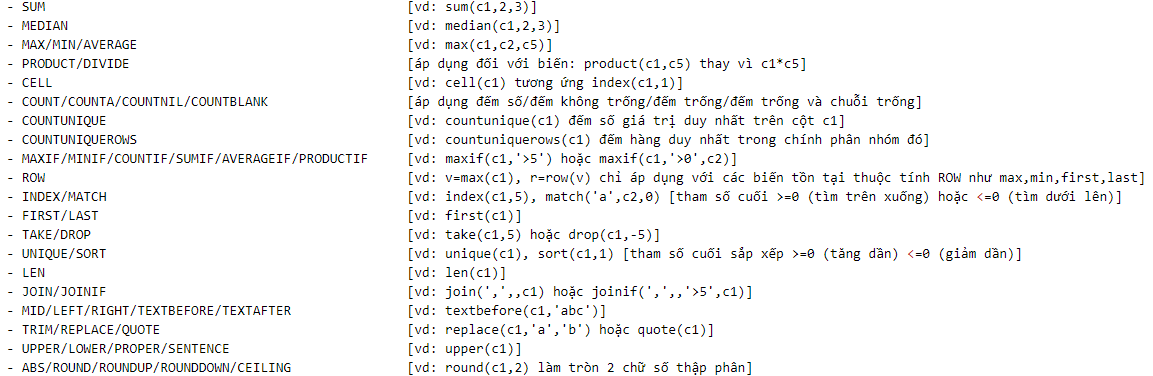
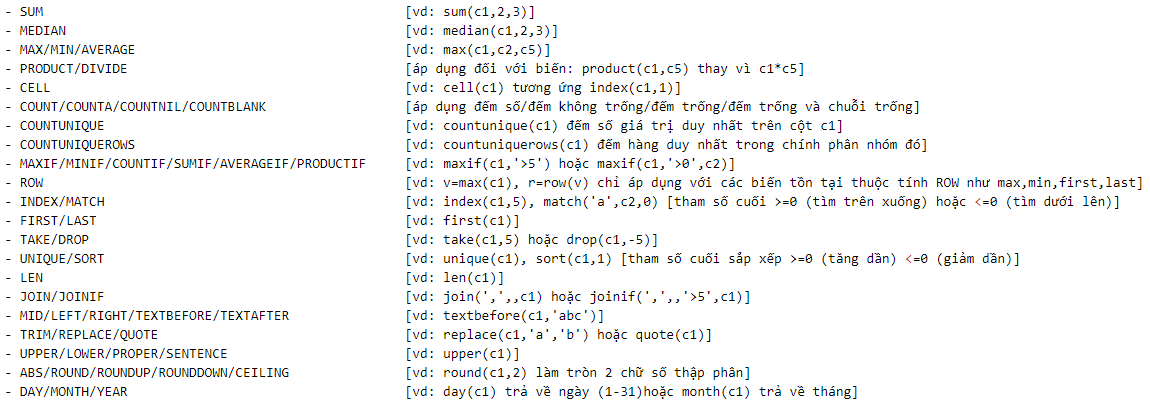
ok

Changed region(s): [[0.0, 0.0, 1.0, 0.9947]]

diff --git a/xgroup.html b/xgroup.html
@@ -103,7 +103,8 @@
         </note>
      </p>
     <blockquote>
-        <p style="white-space: pre-line"><img src="gif/support.xgroup.png"><!--
+        <p ><img src="gif/support.xgroup.png">
+            <!--
             - SUM                                               [vd: sum(c1,2,3)]
             - MEDIAN                                            [vd: median(c1,2,3)]
             - MAX/MIN/AVERAGE                                   [vd: max(c1,c2,c5)]
@@ -123,7 +124,9 @@
             - MID/LEFT/RIGHT/TEXTBEFORE/TEXTAFTER               [vd: textbefore(c1,'abc')]
             - TRIM/REPLACE/QUOTE                                [vd: replace(c1,'a','b') hoặc quote(c1)]
             - UPPER/LOWER/PROPER/SENTENCE                       [vd: upper(c1)]
-            - ABS/ROUND/ROUNDUP/ROUNDDOWN/CEILING               [vd: round(c1,2) làm tròn 2 chữ số thập phân] -->
+            - ABS/ROUND/ROUNDUP/ROUNDDOWN/CEILING               [vd: round(c1,2) làm tròn 2 chữ số thập phân]
+            - DAY/MONTH/YEAR                                    [vd: day(c1) trả về ngày (1-31)hoặc month(c1) trả về tháng] 
+        -->
         </p>
     </blockquote>
     <p><strong>Related function</strong></p>
